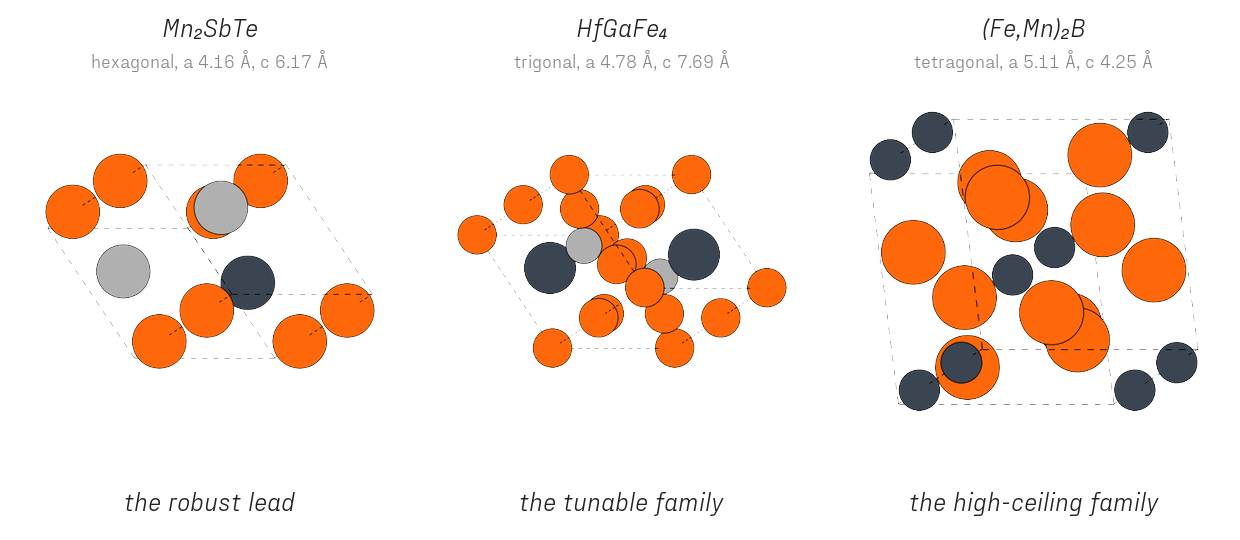
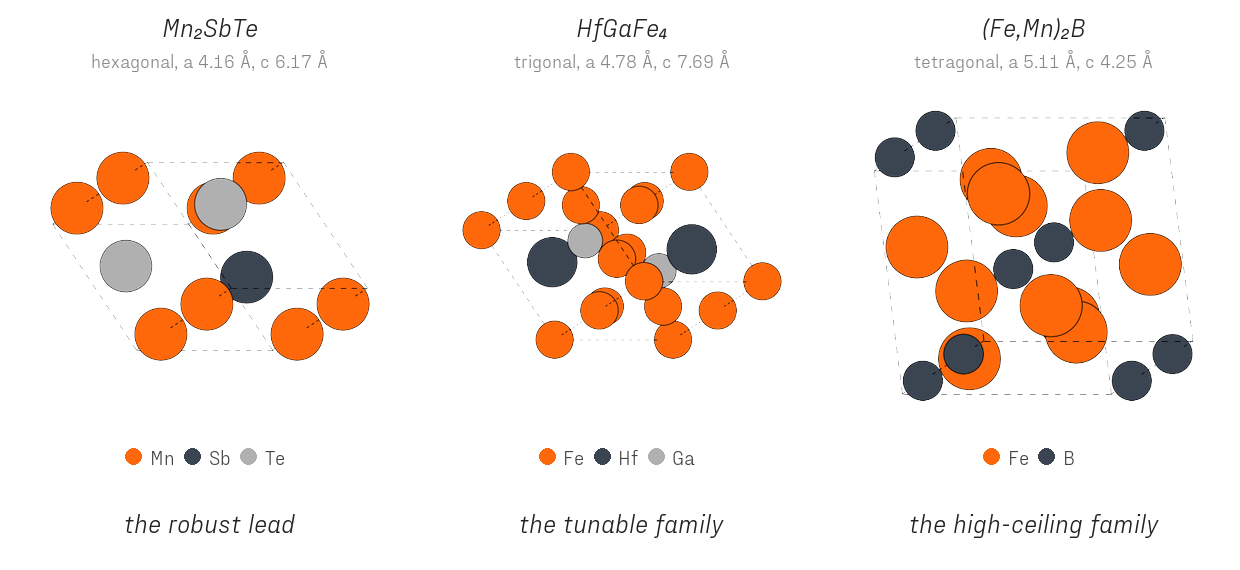
Replace the schematic polycrystal with real sweep data; element keys; legend fix
The seven-grain cartoon (old Figure 10) is replaced by a Methods-section
figure pairing a textured Voronoi polycrystal with actual sweep output
for HfGaFe4 (2,000 Latin-hypercube samples aggregated on the two most
sensitive axes; reproduces the stored envelope, 143 passing). Structure
panels gain per-panel element keys. The Pareto-set legend drops the
redundant "3D".

diff --git a/content/project-014/magnet-anisotropy-dataset.md b/content/project-014/magnet-anisotropy-dataset.md
@@ -164,7 +164,7 @@ compares the two scales, and its practical meaning is geometric: when \(\kappa >
     <text x="510" y="188" font-size="11" text-anchor="middle" fill="#1f2937">L1₀ FePt: very hard</text>
     <text x="310" y="212" font-size="10.5" text-anchor="middle" fill="#888">the two energy scales, MJ/m³ (literature values); hard means the orange bar wins</text>
   </svg>
-  <figcaption><strong>Figure 2.</strong> Hardness is a ratio of two energy scales. Iron carries an enormous magnetization (tall gray bar, µ₀Ms² ≈ 3.7 MJ/m³) but almost no anisotropy to defend it (K₁ ≈ 0.05), so it demagnetizes itself: κ ≈ 0.1. Nd₂Fe₁₄B and L1₀ FePt hold less magnetization but defend it with anisotropy several times the self-field scale. The dataset's κ label encodes this contest for every entry, and the κ = 1 line in Figure 5 is the boundary where the orange bar starts winning.</figcaption>
+  <figcaption><strong>Figure 2.</strong> Hardness is a ratio of two energy scales. Iron carries an enormous magnetization (tall gray bar, µ₀Ms² ≈ 3.7 MJ/m³) but almost no anisotropy to defend it (K₁ ≈ 0.05), so it demagnetizes itself: κ ≈ 0.1. Nd₂Fe₁₄B and L1₀ FePt hold less magnetization but defend it with anisotropy several times the self-field scale. The dataset's κ label encodes this contest for every entry, and the κ = 1 line in Figure 6 is the boundary where the orange bar starts winning.</figcaption>
 </figure>
 
 #### 2.3  From intrinsic numbers to a working magnet
@@ -228,6 +228,122 @@ The stages, with their exact settings:
 4. **Intrinsic magnetism.** Curie temperature and magnetization density from dedicated property models [16]; the Curie estimate should be treated as method-level (such estimates typically run high).
 5. **Anisotropy.** The expensive stage, described in Section 3.2. Outputs \(K_1\), \(M_s\), \(\kappa\), and the easy-axis direction.
 6. **Microstructure sweep** (gate-passing compounds only). A micromagnetic proxy model sweeps seven microstructure parameters (degree of chemical order, texture spread, grain size, grain-boundary exchange and magnetization, soft-phase fraction, dead-layer thickness) over 2,000 Latin-hypercube samples, reporting the peak energy product \((BH)_{max}\), peak remanence, and a robustness score: the share of sampled microstructures that clear coercivity ≥ 600 kA/m, remanence ≥ 0.8 T, and \((BH)_{max}\) ≥ 100 kJ/m³, weighted by their margin above those thresholds.
+
+<figure>
+  <svg viewBox="0 0 620 280" xmlns="http://www.w3.org/2000/svg" style="font-family:inherit;">
+    <text x="167.0" y="26" font-size="12" font-style="italic" text-anchor="middle" fill="#222">The object the sweep models</text>
+    <text x="167.0" y="41" font-size="9.5" text-anchor="middle" fill="#888">textured polycrystal: shade = grain alignment</text>
+    <polygon points="101,149 102,165 100,174 89,184 86,184 55,157 80,136" fill="#FF680A" fill-opacity="0.39" stroke="#fff" stroke-width="2"/>
+    <polygon points="185,93 210,79 211,62 167,62" fill="#FF680A" fill-opacity="0.75" stroke="#fff" stroke-width="2"/>
+    <polygon points="66,248 75,225 87,224 95,237 93,242" fill="#FF680A" fill-opacity="0.71" stroke="#fff" stroke-width="2"/>
+    <polygon points="80,81 63,76 42,81 42,84 56,94" fill="#FF680A" fill-opacity="0.45" stroke="#fff" stroke-width="2"/>
+    <polygon points="272,154 292,153 292,201 265,181" fill="#FF680A" fill-opacity="0.79" stroke="#fff" stroke-width="2"/>
+    <polygon points="152,172 120,164 148,143 156,147 159,168" fill="#FF680A" fill-opacity="0.70" stroke="#fff" stroke-width="2"/>
+    <polygon points="237,132 237,133 233,136 199,137 183,127 183,102 219,109" fill="#FF680A" fill-opacity="0.83" stroke="#fff" stroke-width="2"/>
+    <polygon points="88,223 91,190 89,184 86,184 56,199 63,217 75,225 87,224" fill="#FF680A" fill-opacity="0.92" stroke="#fff" stroke-width="2"/>
+    <polygon points="217,212 198,199 190,186 199,137 233,136 221,198" fill="#FF680A" fill-opacity="0.86" stroke="#fff" stroke-width="2"/>
+    <polygon points="244,132 268,152 221,198 233,136 237,133" fill="#FF680A" fill-opacity="0.70" stroke="#fff" stroke-width="2"/>
+    <polygon points="276,88 279,112 292,118 292,74 279,83" fill="#FF680A" fill-opacity="0.80" stroke="#fff" stroke-width="2"/>
+    <polygon points="183,127 199,137 190,186 159,168 156,147 170,134" fill="#FF680A" fill-opacity="0.83" stroke="#fff" stroke-width="2"/>
+    <polygon points="136,195 100,174 102,165 120,164 152,172" fill="#FF680A" fill-opacity="0.89" stroke="#fff" stroke-width="2"/>
+    <polygon points="115,215 91,190 88,223" fill="#FF680A" fill-opacity="0.85" stroke="#fff" stroke-width="2"/>
+    <polygon points="276,88 256,99 242,81 247,71 279,83" fill="#FF680A" fill-opacity="0.53" stroke="#fff" stroke-width="2"/>
+    <polygon points="159,100 183,100 183,102 183,127 170,134 144,106" fill="#FF680A" fill-opacity="0.77" stroke="#fff" stroke-width="2"/>
+    <polygon points="66,248 75,225 63,217 42,245 42,252 62,252" fill="#FF680A" fill-opacity="0.56" stroke="#fff" stroke-width="2"/>
+    <polygon points="159,100 146,70 121,93 135,107 144,106" fill="#FF680A" fill-opacity="0.86" stroke="#fff" stroke-width="2"/>
+    <polygon points="219,109 183,102 183,100 185,93 210,79 217,84" fill="#FF680A" fill-opacity="0.49" stroke="#fff" stroke-width="2"/>
+    <polygon points="276,88 279,112 250,124 256,99" fill="#FF680A" fill-opacity="0.52" stroke="#fff" stroke-width="2"/>
+    <polygon points="56,94 42,84 42,122 65,117" fill="#FF680A" fill-opacity="0.76" stroke="#fff" stroke-width="2"/>
+    <polygon points="101,149 102,165 120,164 148,143 135,133 107,142" fill="#FF680A" fill-opacity="0.29" stroke="#fff" stroke-width="2"/>
+    <polygon points="292,252 292,201 265,181 219,215 229,252" fill="#FF680A" fill-opacity="0.90" stroke="#fff" stroke-width="2"/>
+    <polygon points="121,93 108,92 99,87 96,81 96,62 152,62 146,70" fill="#FF680A" fill-opacity="0.78" stroke="#fff" stroke-width="2"/>
+    <polygon points="62,252 95,252 93,242 66,248" fill="#FF680A" fill-opacity="0.49" stroke="#fff" stroke-width="2"/>
+    <polygon points="136,195 152,172 159,168 190,186 198,199 139,215" fill="#FF680A" fill-opacity="0.52" stroke="#fff" stroke-width="2"/>
+    <polygon points="63,76 59,62 42,62 42,81" fill="#FF680A" fill-opacity="0.15" stroke="#fff" stroke-width="2"/>
+    <polygon points="268,152 221,198 217,212 219,215 265,181 272,154" fill="#FF680A" fill-opacity="0.67" stroke="#fff" stroke-width="2"/>
+    <polygon points="121,93 108,92 107,142 135,133 135,107" fill="#FF680A" fill-opacity="0.73" stroke="#fff" stroke-width="2"/>
+    <polygon points="80,81 56,94 65,117 72,118 99,87 96,81" fill="#FF680A" fill-opacity="0.74" stroke="#fff" stroke-width="2"/>
+    <polygon points="42,245 42,196 56,199 63,217" fill="#FF680A" fill-opacity="0.67" stroke="#fff" stroke-width="2"/>
+    <polygon points="159,100 183,100 185,93 167,62 152,62 146,70" fill="#FF680A" fill-opacity="0.84" stroke="#fff" stroke-width="2"/>
+    <polygon points="237,132 234,85 217,84 219,109" fill="#FF680A" fill-opacity="0.82" stroke="#fff" stroke-width="2"/>
+    <polygon points="56,199 86,184 55,157 42,157 42,196" fill="#FF680A" fill-opacity="0.86" stroke="#fff" stroke-width="2"/>
+    <polygon points="279,83 292,74 292,62 247,62 247,71" fill="#FF680A" fill-opacity="0.59" stroke="#fff" stroke-width="2"/>
+    <polygon points="256,99 250,124 244,132 237,133 237,132 234,85 242,81" fill="#FF680A" fill-opacity="0.91" stroke="#fff" stroke-width="2"/>
+    <polygon points="80,81 63,76 59,62 96,62 96,81" fill="#FF680A" fill-opacity="0.64" stroke="#fff" stroke-width="2"/>
+    <polygon points="115,215 91,190 89,184 100,174 136,195 139,215 134,225" fill="#FF680A" fill-opacity="0.79" stroke="#fff" stroke-width="2"/>
+    <polygon points="134,231 142,252 229,252 219,215 217,212 198,199 139,215 134,225" fill="#FF680A" fill-opacity="0.82" stroke="#fff" stroke-width="2"/>
+    <polygon points="99,87 108,92 107,142 101,149 80,136 72,118" fill="#FF680A" fill-opacity="0.28" stroke="#fff" stroke-width="2"/>
+    <polygon points="93,242 95,237 134,231 142,252 95,252" fill="#FF680A" fill-opacity="0.49" stroke="#fff" stroke-width="2"/>
+    <polygon points="244,132 268,152 272,154 292,153 292,118 279,112 250,124" fill="#FF680A" fill-opacity="0.68" stroke="#fff" stroke-width="2"/>
+    <polygon points="144,106 170,134 156,147 148,143 135,133 135,107" fill="#FF680A" fill-opacity="0.74" stroke="#fff" stroke-width="2"/>
+    <polygon points="242,81 234,85 217,84 210,79 211,62 247,62 247,71" fill="#FF680A" fill-opacity="0.75" stroke="#fff" stroke-width="2"/>
+    <polygon points="72,118 80,136 55,157 42,157 42,122 65,117" fill="#FF680A" fill-opacity="0.76" stroke="#fff" stroke-width="2"/>
+    <polygon points="134,231 134,225 115,215 88,223 87,224 95,237" fill="#FF680A" fill-opacity="0.52" stroke="#fff" stroke-width="2"/>
+    <rect x="42" y="62" width="250" height="190" fill="none" stroke="#bbb" stroke-width="0.7"/>
+    <ellipse cx="198" cy="205" rx="11" ry="7" fill="#3b4552" opacity="0.55"/>
+    <ellipse cx="96" cy="120" rx="8" ry="6" fill="#3b4552" opacity="0.55"/>
+    <line x1="30" y1="234" x2="30" y2="80" stroke="#888" stroke-width="0.8"/>
+    <polygon points="30,74 27,82 33,82" fill="#888"/>
+    <text x="20" y="157.0" font-size="10" font-style="italic" fill="#444" text-anchor="middle" transform="rotate(-90 20 157.0)">alignment axis</text>
+    <text x="477.0" y="26" font-size="12" font-style="italic" text-anchor="middle" fill="#222">The sweep output (HfGaFe₄, 2,000 samples)</text>
+    <text x="477.0" y="41" font-size="9.5" text-anchor="middle" fill="#888">share of samples passing all three thresholds</text>
+    <rect x="372" y="62" width="40" height="29" fill="#000" fill-opacity="0.04"/>
+    <rect x="414" y="62" width="40" height="29" fill="#000" fill-opacity="0.04"/>
+    <rect x="456" y="62" width="40" height="29" fill="#000" fill-opacity="0.04"/>
+    <rect x="498" y="62" width="40" height="29" fill="#000" fill-opacity="0.04"/>
+    <rect x="540" y="62" width="40" height="29" fill="#000" fill-opacity="0.04"/>
+    <rect x="372" y="93" width="40" height="29" fill="#000" fill-opacity="0.04"/>
+    <rect x="414" y="93" width="40" height="29" fill="#000" fill-opacity="0.04"/>
+    <rect x="456" y="93" width="40" height="29" fill="#000" fill-opacity="0.04"/>
+    <rect x="498" y="93" width="40" height="29" fill="#000" fill-opacity="0.04"/>
+    <rect x="540" y="93" width="40" height="29" fill="#000" fill-opacity="0.04"/>
+    <rect x="372" y="124" width="40" height="29" fill="#000" fill-opacity="0.04"/>
+    <rect x="414" y="124" width="40" height="29" fill="#000" fill-opacity="0.04"/>
+    <rect x="456" y="124" width="40" height="29" fill="#000" fill-opacity="0.04"/>
+    <rect x="498" y="124" width="40" height="29" fill="#FF680A" opacity="0.12"/>
+    <text x="518.0" y="142.5" font-size="9" text-anchor="middle" fill="#1f2937">10%</text>
+    <rect x="540" y="124" width="40" height="29" fill="#FF680A" opacity="0.25"/>
+    <text x="560.0" y="142.5" font-size="9" text-anchor="middle" fill="#1f2937">25%</text>
+    <rect x="372" y="155" width="40" height="29" fill="#000" fill-opacity="0.04"/>
+    <rect x="414" y="155" width="40" height="29" fill="#000" fill-opacity="0.04"/>
+    <rect x="456" y="155" width="40" height="29" fill="#FF680A" opacity="0.12"/>
+    <text x="476.0" y="173.5" font-size="9" text-anchor="middle" fill="#1f2937">4%</text>
+    <rect x="498" y="155" width="40" height="29" fill="#FF680A" opacity="0.12"/>
+    <text x="518.0" y="173.5" font-size="9" text-anchor="middle" fill="#1f2937">11%</text>
+    <rect x="540" y="155" width="40" height="29" fill="#FF680A" opacity="0.42"/>
+    <text x="560.0" y="173.5" font-size="9" text-anchor="middle" fill="#1f2937">42%</text>
+    <rect x="372" y="186" width="40" height="29" fill="#000" fill-opacity="0.04"/>
+    <rect x="414" y="186" width="40" height="29" fill="#000" fill-opacity="0.04"/>
+    <rect x="456" y="186" width="40" height="29" fill="#FF680A" opacity="0.12"/>
+    <text x="476.0" y="204.5" font-size="9" text-anchor="middle" fill="#1f2937">5%</text>
+    <rect x="498" y="186" width="40" height="29" fill="#FF680A" opacity="0.19"/>
+    <text x="518.0" y="204.5" font-size="9" text-anchor="middle" fill="#1f2937">19%</text>
+    <rect x="540" y="186" width="40" height="29" fill="#FF680A" opacity="0.38"/>
+    <text x="560.0" y="204.5" font-size="9" text-anchor="middle" fill="#1f2937">38%</text>
+    <rect x="372" y="217" width="40" height="29" fill="#000" fill-opacity="0.04"/>
+    <rect x="414" y="217" width="40" height="29" fill="#000" fill-opacity="0.04"/>
+    <rect x="456" y="217" width="40" height="29" fill="#FF680A" opacity="0.12"/>
+    <text x="476.0" y="235.5" font-size="9" text-anchor="middle" fill="#1f2937">3%</text>
+    <rect x="498" y="217" width="40" height="29" fill="#FF680A" opacity="0.19"/>
+    <text x="518.0" y="235.5" font-size="9" text-anchor="middle" fill="#1f2937">19%</text>
+    <rect x="540" y="217" width="40" height="29" fill="#FF680A" opacity="0.39"/>
+    <text x="560.0" y="235.5" font-size="9" text-anchor="middle" fill="#1f2937">39%</text>
+    <text x="392.0" y="262" font-size="9" text-anchor="middle" fill="#888">0.6</text>
+    <text x="434.0" y="262" font-size="9" text-anchor="middle" fill="#888">0.7</text>
+    <text x="476.0" y="262" font-size="9" text-anchor="middle" fill="#888">0.8</text>
+    <text x="518.0" y="262" font-size="9" text-anchor="middle" fill="#888">0.9</text>
+    <text x="560.0" y="262" font-size="9" text-anchor="middle" fill="#888">1.0</text>
+    <text x="365" y="80.5" font-size="9" text-anchor="end" fill="#888">1.0</text>
+    <text x="365" y="111.5" font-size="9" text-anchor="end" fill="#888">0.5</text>
+    <text x="365" y="142.5" font-size="9" text-anchor="end" fill="#888">0.1</text>
+    <text x="365" y="173.5" font-size="9" text-anchor="end" fill="#888">0.05</text>
+    <text x="365" y="204.5" font-size="9" text-anchor="end" fill="#888">0.01</text>
+    <text x="365" y="235.5" font-size="9" text-anchor="end" fill="#888">0.0</text>
+    <text x="477.0" y="278" font-size="10" font-style="italic" text-anchor="middle" fill="#444">chemical order parameter</text>
+    <text x="330" y="155" font-size="10" font-style="italic" text-anchor="middle" fill="#444" transform="rotate(-90 330 155)">boundary exchange fraction</text>
+    </svg>
+  <figcaption><strong>Figure 5.</strong> The microstructure sweep of stage 6. Left: the object the sweep parameterizes, a textured polycrystal in which each grain's shade encodes its misalignment from the pressing axis, grain boundaries carry reduced exchange and magnetization, and the gray inclusions are soft phase. Right: real sweep output for HfGaFe₄, the 2,000 Latin-hypercube samples aggregated onto the two most sensitive axes. The share of samples clearing all three thresholds concentrates at high chemical order and low grain-boundary exchange; that concentration is the acceptable window the dataset reports for each gate-passing compound.</figcaption>
+</figure>
 
 Two gate configurations were used. The discovery configuration enforces magnet-viability floors (Curie temperature ≥ 400 K, \(M_s\) ≥ 0.5 MA/m, hull distance ≤ 200 meV/atom, \(\kappa > 1\), easy axis along the crystallographic c-axis). The dataset-building configuration relaxes those floors (Curie ≥ 0 K, \(M_s\) ≥ 0.1 MA/m, hull distance ≤ 500 meV/atom) so that the anisotropy label is captured for any uniaxial magnetic structure, including ones that make poor magnets. Most of the dataset was built in the second configuration, which is why its label distribution covers soft and hard compounds alike. The anisotropy stage dominates the cost: a production calculation takes 8 to 15 minutes per compound and the high-accuracy recomputations up to several hours, for roughly 2,900 anisotropy calculations in total over the eight-day screening period.
 
@@ -303,7 +419,7 @@ The relaxed structures make the set graph-model-ready: a crystal-graph network c
 
 #### 4.1  Database-level statistics
 
-The labeled set spans 60 elements and 72 space groups across the three uniaxial crystal systems. Figures 5 through 7 show what is in it: a hardness distribution balanced across soft and hard compounds, chemistry concentrated on the magnetic 3d row with an oxide-rich anion population, and a rare-earth row that is empty by construction.
+The labeled set spans 60 elements and 72 space groups across the three uniaxial crystal systems. Figures 6 through 8 show what is in it: a hardness distribution balanced across soft and hard compounds, chemistry concentrated on the magnetic 3d row with an oxide-rich anion population, and a rare-earth row that is empty by construction.
 
 <figure>
   <svg viewBox="0 0 620 210" xmlns="http://www.w3.org/2000/svg" style="font-family:inherit;">
@@ -332,7 +448,7 @@ The labeled set spans 60 elements and 72 space groups across the three uniaxial 
     <text x="540" y="188" font-size="11" text-anchor="middle" fill="#888">&gt; 4</text>
     <text x="310" y="207" font-size="11" text-anchor="middle" fill="#888">corrected magnetic hardness κ (2,044 reliable labels)</text>
   </svg>
-  <figcaption><strong>Figure 5.</strong> The corrected hardness distribution is deliberately balanced: roughly a third soft (gray), a third moderate, a third hard, rather than the survivor-only distribution a discovery screen would leave behind. Easy-axis and easy-plane labels split 966 : 1,078, nearly even, so a classifier trained on the set sees both outcomes in force.</figcaption>
+  <figcaption><strong>Figure 6.</strong> The corrected hardness distribution is deliberately balanced: roughly a third soft (gray), a third moderate, a third hard, rather than the survivor-only distribution a discovery screen would leave behind. Easy-axis and easy-plane labels split 966 : 1,078, nearly even, so a classifier trained on the set sees both outcomes in force.</figcaption>
 </figure>
 
 <figure>
@@ -590,7 +706,7 @@ The labeled set spans 60 elements and 72 space groups across the three uniaxial 
     <text x="549" y="240" font-size="8.5" fill="#888" font-style="italic">no fully-relativistic</text>
     <text x="549" y="251" font-size="8.5" fill="#888" font-style="italic">pseudopotentials</text>
     </svg>
-  <figcaption><strong>Figure 6.</strong> Label coverage across the periodic table: the count of κ-reliable labels containing each element. The magnetic 3d row dominates (Mn 741, Fe 672, Cr 414, Co 272), oxygen leads the anions (825), and the alkali and alkaline-earth counts reflect the oxide and chalcogenide population. Crossed cells (Sc, Y, the lanthanides) are uncomputable: the fully-relativistic pseudopotential set behind the anisotropy stage does not include them, which is what makes the dataset rare-earth-free by construction.</figcaption>
+  <figcaption><strong>Figure 7.</strong> Label coverage across the periodic table: the count of κ-reliable labels containing each element. The magnetic 3d row dominates (Mn 741, Fe 672, Cr 414, Co 272), oxygen leads the anions (825), and the alkali and alkaline-earth counts reflect the oxide and chalcogenide population. Crossed cells (Sc, Y, the lanthanides) are uncomputable: the fully-relativistic pseudopotential set behind the anisotropy stage does not include them, which is what makes the dataset rare-earth-free by construction.</figcaption>
 </figure>
 
 <figure>
@@ -670,7 +786,7 @@ The labeled set spans 60 elements and 72 space groups across the three uniaxial 
     <text x="525" y="132" font-size="8.5" fill="#888">319</text>
     <text x="310" y="184" text-anchor="middle" font-size="10" fill="#444" font-style="italic">2,044 κ-reliable labels</text>
     </svg>
-  <figcaption><strong>Figure 7.</strong> Marginal distributions of the reliable labels. Magnetization and Curie temperature are right-skewed, with the strong, hot compounds in the rare tail; two-thirds of labels sit within 100 meV/atom of the convex hull; trigonal and tetragonal cells dominate the uniaxial population.</figcaption>
+  <figcaption><strong>Figure 8.</strong> Marginal distributions of the reliable labels. Magnetization and Curie temperature are right-skewed, with the strong, hot compounds in the rare tail; two-thirds of labels sit within 100 meV/atom of the convex hull; trigonal and tetragonal cells dominate the uniaxial population.</figcaption>
 </figure>
 
 #### 4.2  Precious metals in, rare earths out
@@ -709,12 +825,12 @@ The two element groups that dominate commercial hard magnets play opposite roles
     <text x="548" y="190" font-size="10.5" text-anchor="middle" fill="#888">&gt; 4</text>
     <text x="318" y="212" font-size="10.5" text-anchor="middle" fill="#888">corrected magnetic hardness κ, share within each group, %</text>
   </svg>
-  <figcaption><strong>Figure 8.</strong> The hardness distribution split by chemistry, each group normalized to its own size. The precious-metal subset (gray) concentrates in the hard bands, since heavy 5d elements supply anisotropy through spin–orbit coupling, while the precious-free majority (orange) still populates every band, including 519 easy-axis compounds with κ &gt; 1. Rare-earth-containing entries number zero by construction: the anisotropy route's pseudopotential set has no lanthanides, so the dataset maps the rare-earth-free landscape it is meant for.</figcaption>
+  <figcaption><strong>Figure 9.</strong> The hardness distribution split by chemistry, each group normalized to its own size. The precious-metal subset (gray) concentrates in the hard bands, since heavy 5d elements supply anisotropy through spin–orbit coupling, while the precious-free majority (orange) still populates every band, including 519 easy-axis compounds with κ &gt; 1. Rare-earth-containing entries number zero by construction: the anisotropy route's pseudopotential set has no lanthanides, so the dataset maps the rare-earth-free landscape it is meant for.</figcaption>
 </figure>
 
 #### 4.3  What the screen surfaces: candidates and their microstructure windows
 
-Table 4 collects the leading candidates, and Figure 9 shows the screened cells behind the three rare-earth-free families. A manufactured magnet, however, is a polycrystal, and the properties a user sees depend on grain size, grain alignment, and grain-boundary chemistry as much as on the cell itself (Figure 10). For every gate-passing compound the sweep stage therefore tests 2,000 sampled microstructures and records the *acceptable window*: the region of processing space in which the compound still clears the magnet thresholds (Figure 11).
+Table 4 collects the leading candidates, and Figure 10 shows the screened cells behind the three rare-earth-free families. A manufactured magnet, however, is a polycrystal, and the properties a user sees depend on grain size, grain alignment, and grain-boundary chemistry as much as on the cell itself (Figure 5). For every gate-passing compound the sweep stage therefore tests 2,000 sampled microstructures and records the *acceptable window*: the region of processing space in which the compound still clears the magnet thresholds (Figure 11).
 
 **Table 4.** Leading candidates from the screen, with the L1₀ FePt benchmark as the precious-metal reference. Robustness is the share of 2,000 sampled microstructures that clear all magnet thresholds, weighted by their margin above them; the peak energy product is the sweep's best case. Sintered Nd–Fe–B delivers ≈400 kJ/m³.
 
@@ -730,55 +846,7 @@ Table 4 collects the leading candidates, and Figure 9 shows the screened cells b
 
 <figure>
 <img src="/img/fig9-structures.png" alt="Ball-and-stick unit cells of Mn2SbTe, HfGaFe4, and (Fe,Mn)2B" style="width:100%;max-width:640px;display:block;margin:0 auto">
-  <figcaption><strong>Figure 9.</strong> The screened cells behind Table 4's three rare-earth-free families, drawn from the dataset's structure files. Left: Mn₂SbTe, a layered hexagonal cell in which Mn planes (orange) alternate with Sb (dark gray) and Te (light gray); the stacking supplies the anisotropy that makes it the most robust lead. Center: HfGaFe₄, the trigonal A-Fe motif, an iron framework (orange) with an A site (Hf, dark gray) that flips the easy axis from plane to c and an anion site (Ga, light gray) that tunes the hardness. Right: the tetragonal (Fe,Mn)₂B parent cell (boron in dark gray); substituting one iron site with Mn in a supercell of this structure produces the Fe₁₅MnB₈ and Fe₇MnB₄ leads.</figcaption>
-</figure>
-
-Between the unit cell and the finished magnet sits the microstructure. Figure 10 shows the object the sweep stage models: a polycrystal whose grains each carry the crystal's easy axis, imperfectly aligned from grain to grain, joined at boundaries whose chemistry is never as clean as the bulk.
-
-<figure>
-  <svg viewBox="0 0 620 268" xmlns="http://www.w3.org/2000/svg" style="font-family:inherit;">
-    <text x="185" y="20" text-anchor="middle" font-size="12" font-style="italic" fill="#222">Inside the acceptable window</text>
-    <text x="185" y="35" text-anchor="middle" font-size="10" fill="#888">tight texture, clean thin boundaries, no inclusions</text>
-    <text x="495" y="20" text-anchor="middle" font-size="12" font-style="italic" fill="#222">Outside the window</text>
-    <text x="495" y="35" text-anchor="middle" font-size="10" fill="#888">spread texture, degraded boundary layer,</text>
-    <text x="495" y="47" text-anchor="middle" font-size="10" fill="#888">soft-phase inclusion, dead rims</text>
-    <polygon points="60,62 155,62 138,132 60,147" fill="#000" fill-opacity="0.02" stroke="#bbb" stroke-width="1.0"/>
-    <polygon points="155,62 241,62 228,117 138,132" fill="#000" fill-opacity="0.05" stroke="#bbb" stroke-width="1.0"/>
-    <polygon points="241,62 310,62 310,157 228,117" fill="#000" fill-opacity="0.03" stroke="#bbb" stroke-width="1.0"/>
-    <polygon points="60,147 138,132 159,177 129,222 60,222" fill="#000" fill-opacity="0.04" stroke="#bbb" stroke-width="1.0"/>
-    <polygon points="138,132 228,117 254,172 159,177" fill="#000" fill-opacity="0.02" stroke="#bbb" stroke-width="1.0"/>
-    <polygon points="228,117 310,157 310,222 237,222 254,172" fill="#000" fill-opacity="0.03" stroke="#bbb" stroke-width="1.0"/>
-    <polygon points="159,177 254,172 237,222 129,222" fill="#000" fill-opacity="0.05" stroke="#bbb" stroke-width="1.0"/>
-    <g transform="rotate(-2 105 103)"><line x1="105" y1="115" x2="105" y2="95" stroke="#FF680A" stroke-width="2.4"/><polygon points="105,89 101,98 109,98" fill="#FF680A"/></g>
-    <g transform="rotate(3 188 93)"><line x1="188" y1="105" x2="188" y2="85" stroke="#FF680A" stroke-width="2.4"/><polygon points="188,79 184,88 192,88" fill="#FF680A"/></g>
-    <g transform="rotate(-1 273 107)"><line x1="273" y1="119" x2="273" y2="99" stroke="#FF680A" stroke-width="2.4"/><polygon points="273,93 269,102 277,102" fill="#FF680A"/></g>
-    <g transform="rotate(2 100 182)"><line x1="100" y1="194" x2="100" y2="174" stroke="#FF680A" stroke-width="2.4"/><polygon points="100,168 96,177 104,177" fill="#FF680A"/></g>
-    <g transform="rotate(-3 194 147)"><line x1="194" y1="159" x2="194" y2="139" stroke="#FF680A" stroke-width="2.4"/><polygon points="194,133 190,142 198,142" fill="#FF680A"/></g>
-    <g transform="rotate(1 277 187)"><line x1="277" y1="199" x2="277" y2="179" stroke="#FF680A" stroke-width="2.4"/><polygon points="277,173 273,182 281,182" fill="#FF680A"/></g>
-    <g transform="rotate(0 191 199)"><line x1="191" y1="211" x2="191" y2="191" stroke="#FF680A" stroke-width="2.4"/><polygon points="191,185 187,194 195,194" fill="#FF680A"/></g>
-    <polygon points="370,62 465,62 448,132 370,147" fill="#000" fill-opacity="0.02" stroke="#999" stroke-width="2.4"/>
-    <polygon points="465,62 551,62 538,117 448,132" fill="#000" fill-opacity="0.05" stroke="#999" stroke-width="2.4"/>
-    <polygon points="551,62 620,62 620,157 538,117" fill="#000" fill-opacity="0.03" stroke="#999" stroke-width="2.4"/>
-    <polygon points="370,147 448,132 469,177 439,222 370,222" fill="#000" fill-opacity="0.04" stroke="#999" stroke-width="2.4"/>
-    <polygon points="448,132 538,117 564,172 469,177" fill="#000" fill-opacity="0.02" stroke="#999" stroke-width="2.4"/>
-    <polygon points="538,117 620,157 620,222 547,222 564,172" fill="#000" fill-opacity="0.03" stroke="#999" stroke-width="2.4"/>
-    <polygon points="469,177 564,172 547,222 439,222" fill="#000" fill-opacity="0.05" stroke="#999" stroke-width="2.4"/>
-    <polygon points="472,68 541,68 531,112 458,124" fill="none" stroke="#888" stroke-width="0.8" stroke-dasharray="3,3"/>
-    <ellipse cx="590" cy="203" rx="12" ry="8" fill="#1f2937" opacity="0.25"/>
-    <g transform="rotate(-11 415 103)"><line x1="415" y1="115" x2="415" y2="95" stroke="#FF680A" stroke-width="2.4"/><polygon points="415,89 411,98 419,98" fill="#FF680A"/></g>
-    <g transform="rotate(8 498 93)"><line x1="498" y1="105" x2="498" y2="85" stroke="#FF680A" stroke-width="2.4"/><polygon points="498,79 494,88 502,88" fill="#FF680A"/></g>
-    <g transform="rotate(-5 583 107)"><line x1="583" y1="119" x2="583" y2="99" stroke="#FF680A" stroke-width="2.4"/><polygon points="583,93 579,102 587,102" fill="#FF680A"/></g>
-    <g transform="rotate(16 410 182)"><line x1="410" y1="194" x2="410" y2="174" stroke="#FF680A" stroke-width="2.4"/><polygon points="410,168 406,177 414,177" fill="#FF680A"/></g>
-    <g transform="rotate(-19 504 147)"><line x1="504" y1="159" x2="504" y2="139" stroke="#FF680A" stroke-width="2.4"/><polygon points="504,133 500,142 508,142" fill="#FF680A"/></g>
-    <g transform="rotate(9 587 187)"><line x1="587" y1="199" x2="587" y2="179" stroke="#FF680A" stroke-width="2.4"/><polygon points="587,173 583,182 591,182" fill="#FF680A"/></g>
-    <g transform="rotate(-14 501 199)"><line x1="501" y1="211" x2="501" y2="191" stroke="#FF680A" stroke-width="2.4"/><polygon points="501,185 497,194 505,194" fill="#FF680A"/></g>
-    <line x1="34" y1="200" x2="34" y2="100" stroke="#888" stroke-width="0.8"/>
-    <polygon points="34,93 31,101 37,101" fill="#888"/>
-    <text x="24" y="150" text-anchor="middle" font-size="10" fill="#444" font-style="italic" transform="rotate(-90 24 150)">alignment axis</text>
-    <text x="185" y="248" text-anchor="middle" font-size="12" font-style="italic" fill="#222">delivers its peak (BH)<tspan font-size="9" dy="2">max</tspan></text>
-    <text x="495" y="248" text-anchor="middle" font-size="12" font-style="italic" fill="#FF680A">coercivity collapses</text>
-</svg>
-  <figcaption><strong>Figure 10.</strong> The same polycrystal inside and outside the sweep's acceptable window. Each grain carries the compound's easy axis (arrows), aligned to the pressing direction within the texture spread. Left: tight texture, thin clean grain boundaries, no defects; the magnet delivers its peak energy product. Right: the texture spread widens, the boundary layer thickens with reduced exchange and magnetization, a soft-phase inclusion (gray) and dead rims (dashed) appear, and coercivity collapses. The sweep varies seven such parameters over 2,000 Latin-hypercube samples per compound, and the acceptable window of Figure 11 is the region where the left panel's behavior survives.</figcaption>
+  <figcaption><strong>Figure 10.</strong> The screened cells behind Table 4's three rare-earth-free families, drawn from the dataset's structure files. Left: Mn₂SbTe, a layered hexagonal cell in which Mn planes (orange) alternate with Sb (dark gray) and Te (light gray); the stacking supplies the anisotropy that makes it the most robust lead. Center: HfGaFe₄, the trigonal A-Fe motif, an iron framework (orange) with an A site (Hf, dark gray) that flips the easy axis from plane to c and an anion site (Ga, light gray) that tunes the hardness. Right: the tetragonal (Fe,Mn)₂B parent cell (boron in dark gray); substituting one iron site with Mn in a supercell of this structure produces the Fe₁₅MnB₈ and Fe₇MnB₄ leads.</figcaption>
 </figure>
 
 <figure>
@@ -4459,7 +4527,7 @@ A permanent magnet must satisfy three intrinsic requirements at once, and Figure
     <text x="315" y="154" font-size="9.5" font-style="italic" fill="#FF680A" text-anchor="start" paint-order="stroke" stroke="#fff" stroke-width="3">Fe₃Pt</text>
     <text x="268" y="218" font-size="9.5" font-style="italic" fill="#FF680A" text-anchor="end" paint-order="stroke" stroke="#fff" stroke-width="3">Co₃Cu</text>
     <text x="206" y="145" font-size="9.5" font-style="italic" fill="#FF680A" text-anchor="start" paint-order="stroke" stroke="#fff" stroke-width="3">Fe₁₃Co₃</text>
-    <circle cx="468" cy="46" r="3" fill="#FF680A"/><text x="476" y="49" font-size="9" fill="#1f2937">3D Pareto set (n = 28)</text>
+    <circle cx="468" cy="46" r="3" fill="#FF680A"/><text x="476" y="49" font-size="9" fill="#1f2937">Pareto set (n = 28)</text>
     <circle cx="468" cy="60" r="1.4" fill="#1f2937" opacity="0.3"/><text x="476" y="63" font-size="9" fill="#1f2937">one compound</text>
     </svg>
   <figcaption><strong>Figure 13.</strong> The dataset in the three intrinsic dimensions a magnet must satisfy at once: hardness (log κ), magnetization, and Curie temperature. Orange stems mark the 28 compounds that are Pareto-optimal in all three, projected onto the κ-Tc floor for readability. The dashed floor line is κ = 1. The conjunction thins the candidate list further than either two-dimensional view: Mn₂SbTe falls off this frontier (Curie point too low), the (Fe,Mn)₂B borides stay on it, and the high-Curie end belongs to cobalt-rich soft compounds that lack a hardening mechanism.</figcaption>